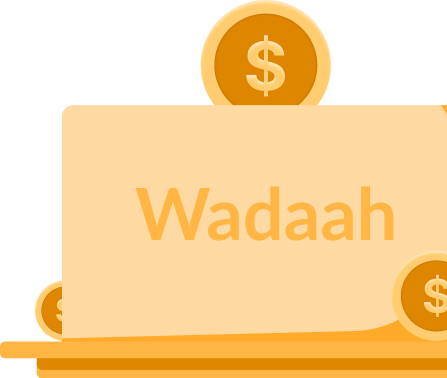
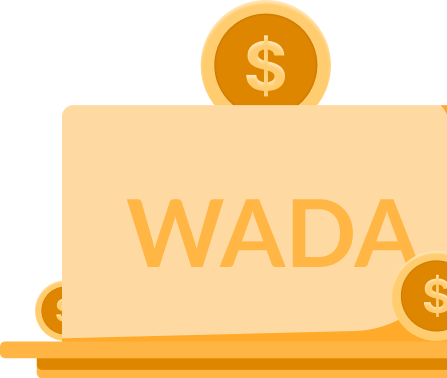
change the wadaah name to wada and fix the app bar left book

Changed region(s): [[0.2617, 0.4947, 0.9306, 0.7275]]

diff --git a/lib/src/pages/book/book_page.dart b/lib/src/pages/book/book_page.dart
@@ -8,6 +8,7 @@ import 'package:shimmer/shimmer.dart';
 
 import '../../providers/book_category_provider.dart';
 import '../../providers/book_provider.dart';
+import '../../widgets/app_bar_left_builder.dart';
 
 class BookPage extends StatefulWidget {
   const BookPage({super.key});
@@ -516,26 +517,10 @@ class _BookPageState extends State<BookPage> {
   //   }
   // }
 
-  AppBar appBarBook() {
-    return AppBar(
-      backgroundColor: Colors.transparent,
-      shadowColor: Colors.transparent,
-      elevation: 0,
-      centerTitle: false,
-      title: Column(
-        crossAxisAlignment: CrossAxisAlignment.start,
-        children: [
-          Text(
-            "Pilih Buku Bacaan",
-            style: AppStyles.heading2TextStyle,
-          ),
-          SizedBox(height: 4),
-          Text(
-            "Pilih buku yang ingin di pinjam",
-            style: AppStyles.hintTextStyle,
-          )
-        ],
-      ),
+  AppBarLeftBuilder appBarBook() {
+    return AppBarLeftBuilder(
+      title: "Pilih Buku Bacaan",
+      description: "Pilih buku yang ingin di pinjam",
       actions: [
         Container(
             margin: EdgeInsets.only(right: 16),

diff --git a/lib/src/pages/alms/alms_page.dart b/lib/src/pages/alms/alms_page.dart
@@ -52,7 +52,7 @@ class _AlmsPageState extends State<AlmsPage> {
   Widget build(BuildContext context) {
     return Scaffold(
       appBar: AppBarLeftBuilder(
-          title: "Wadaah", description: "Waqaf Dana Abadi Ayah Hebat"),
+          title: "WADA", description: "Wallet Dana Abadi"),
       body: RefreshIndicator(
         color: AppColors.primaryColor,
         onRefresh: () => refreshAlmssAndTotalAlms(),
@@ -138,7 +138,7 @@ class _AlmsPageState extends State<AlmsPage> {
                               child: Column(
                                 crossAxisAlignment: CrossAxisAlignment.start,
                                 children: [
-                                  Text("Waqaf Dana Abadi",
+                                  Text("Wallet Dana Abadi",
                                       style: AppStyles.heading2TextStyle),
                                   SizedBox(height: PaddingSizes.small),
                                   Text(

diff --git a/lib/src/widgets/app_bar_left_builder.dart b/lib/src/widgets/app_bar_left_builder.dart
@@ -7,6 +7,7 @@ class AppBarLeftBuilder extends StatelessWidget implements PreferredSizeWidget {
   final String? imagePath;
   final bool showLeadingButton;
   final VoidCallback? onLeadingButtonTapped;
+  final List<Widget>? actions;
 
   const AppBarLeftBuilder(
       {super.key,
@@ -14,7 +15,8 @@ class AppBarLeftBuilder extends StatelessWidget implements PreferredSizeWidget {
       required this.description,
       this.imagePath,
       this.showLeadingButton = false,
-      this.onLeadingButtonTapped});
+      this.onLeadingButtonTapped, 
+      this.actions});
 
   @override
   Widget build(BuildContext context) {
@@ -45,6 +47,7 @@ class AppBarLeftBuilder extends StatelessWidget implements PreferredSizeWidget {
       elevation: 0,
       backgroundColor: Colors.transparent,
       automaticallyImplyLeading: false,
+      actions: actions,
     );
   }
 

diff --git a/lib/src/pages/main_page.dart b/lib/src/pages/main_page.dart
@@ -214,11 +214,11 @@ class _MainPageState extends State<MainPage> {
             label: 'Home',
           ),
           BottomNavigationBarItem(
-              icon: _buildIcon(1, 'images/infaq-icon.png'), label: 'Wadaah'),
+              icon: _buildIcon(1, 'images/infaq-icon.png'), label: 'Wada'),
           BottomNavigationBarItem(
-              icon: _buildIcon(2, 'images/watch.png'), label: 'Watch'),
+              icon: _buildIcon(2, 'images/watch.png'), label: 'Konten'),
           BottomNavigationBarItem(
-              icon: _buildIcon(3, 'images/news-icon.png'), label: 'Watch'),
+              icon: _buildIcon(3, 'images/news-icon.png'), label: 'Berita'),
           BottomNavigationBarItem(
             icon: _buildIcon(4, 'images/more.png'),
             label: 'More',

diff --git a/lib/src/pages/verification_page.dart b/lib/src/pages/verification_page.dart
@@ -106,6 +106,7 @@ class _VerificationPageState extends State<VerificationPage> {
             Text(
               "Kode verifikasi telah dikirimkan melalui email ${widget.email}, Mohon periksa email Anda.",
               style: AppStyles.hintTextStyle,
+              textAlign: TextAlign.center,
             ),
             SizedBox(height: screenHeight * 0.0625),
             SizedBox(
